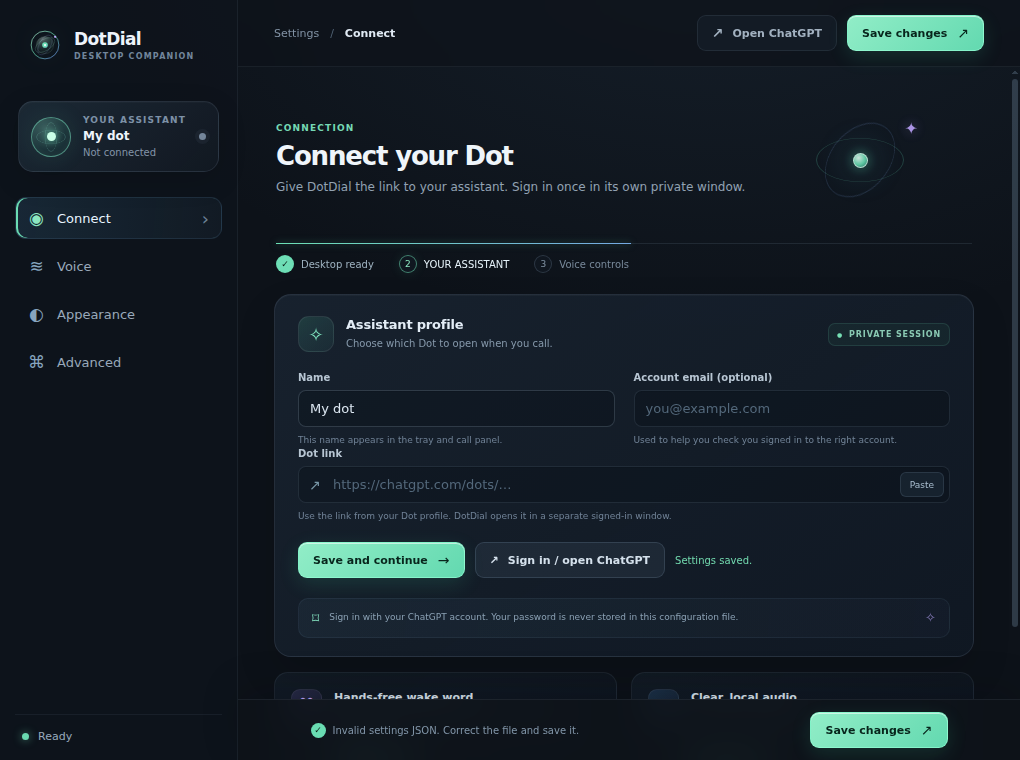
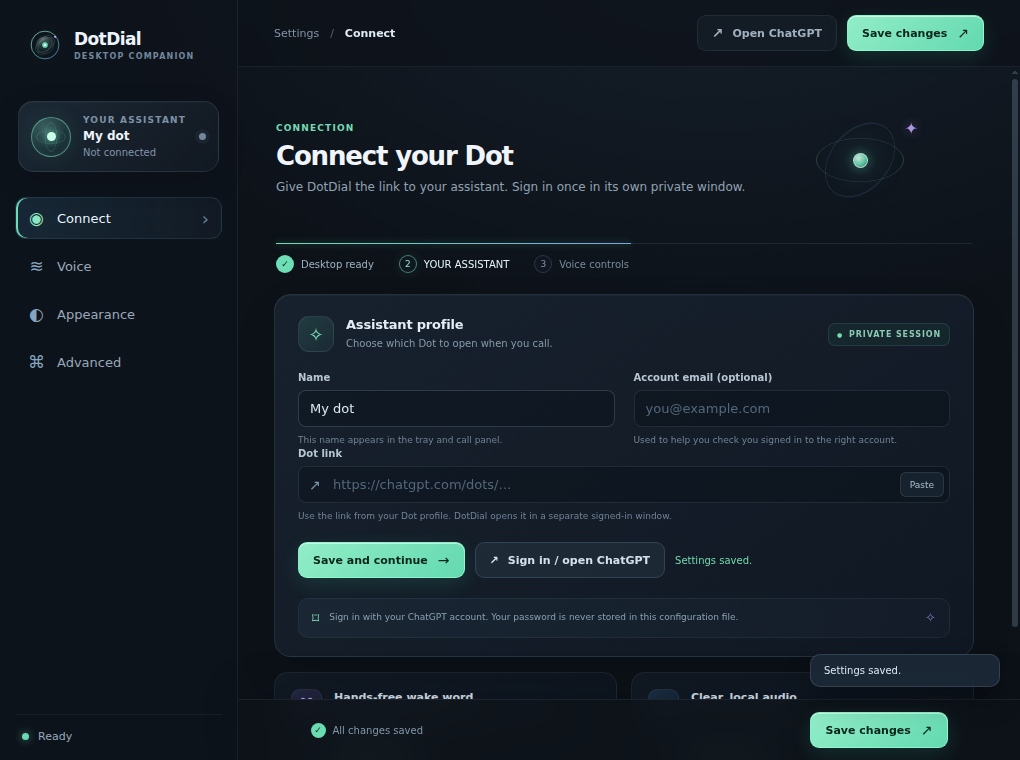
Polish settings recovery and document beta status

Changed region(s): [[0.7902, 0.8474, 1.0, 0.9079], [0.3343, 0.9382, 0.5471, 0.9684]]

diff --git a/src/ui/style.css b/src/ui/style.css
@@ -228,6 +228,7 @@ button:focus-visible, input:focus-visible, select:focus-visible, textarea:focus-
 .save-bar { position: fixed; z-index: 5; right: 0; bottom: 0; left: 238px; display: flex; align-items: center; justify-content: space-between; min-height: 61px; padding: 0 max(36px, calc((100% - 875px) / 2)); border-top: 1px solid rgba(177, 201, 225, .085); background: rgba(13, 18, 25, .82); box-shadow: 0 -12px 38px rgba(3, 7, 11, .15); backdrop-filter: blur(18px); }
 .saved-state { display: flex; align-items: center; gap: 7px; color: #8296a9; font-size: 10px; }
 .saved-check { display: grid; place-items: center; width: 15px; height: 15px; border-radius: 50%; color: #0b2119; background: #69dcb2; font-size: 9px; font-weight: 800; }
+.saved-check.warning { color: #e2bb80; background: rgba(226, 187, 128, .16); }
 .save-bar-actions { display: flex; align-items: center; gap: 9px; }
 .inline-alert { margin: 15px 0 0; padding: 10px 12px; border: 1px solid rgba(255, 136, 149, .23); border-radius: 8px; color: #ffb0b7; background: rgba(193, 74, 91, .09); font-size: 10px; line-height: 1.5; }
 .error-alert { border-color: rgba(255, 136, 149, .25); color: #ffb0b7; background: rgba(193, 74, 91, .1); }

diff --git a/src/ui/renderer.js b/src/ui/renderer.js
@@ -478,8 +478,16 @@ function updateSettingsState(state = {}) {
     const row = messages[state.wake_status];
     if (row) { wakeStatus.textContent = copy(row[0]); wakeStatus.className = `status-note ${row[1]}`.trim(); }
   }
-  if (!unsaved && state.config_error) { $('#save-status').textContent = 'Invalid settings JSON. Correct the file and save it.'; }
-  else if (!unsaved && state.config_pending) { $('#save-status').textContent = 'Settings will apply after the call.'; }
+  if (!unsaved) {
+    const pending = Boolean(state.config_error || state.config_pending);
+    const saved = $('#save-status');
+    saved.textContent = state.config_error ? 'Invalid settings JSON. Correct the file and save it.'
+      : state.config_pending ? 'Settings will apply after the call.' : copy('allChangesSaved');
+    saved.classList.toggle('success', !pending);
+    const indicator = $('.saved-check');
+    indicator.textContent = state.config_error ? '!' : state.config_pending ? '…' : '✓';
+    indicator.classList.toggle('warning', pending);
+  }
   updateSidebar(loadedConfig || DEFAULTS, state);
 }
 function setupPanel() {

diff --git a/docs/RELEASE_NOTES.md b/docs/RELEASE_NOTES.md
@@ -1,0 +1,9 @@
+# DotDial 0.1.0-beta.1
+
+An experimental Linux x86_64 desktop companion for calling a ChatGPT dot already available to your account. Builds are provided as Debian/Ubuntu `.deb` and `.tar.gz` packages.
+
+The beta adds tray and keyboard controls, a floating call panel, separate microphone and speaker mute, and call-state sounds. Optional offline English wake-word support is included; **Hey Dot** is an example phrase. When speakers are muted and recording is enabled, incoming replies can be saved as local WAV files and replayed oldest first. A clip is deleted only after it finishes playing; DotDial does not archive microphone audio or create transcripts.
+
+Defaults use direct networking, no extra audio buffering, and wake-word detection turned off. Wake recognition requires a separate model setup and sensitivity calibration for your voice and microphone. **Live-call acceptance and real-voice wake-word calibration are still pending**, so reliability has not been confirmed for general use.
+
+DotDial is an unofficial community project, not an OpenAI product. It signs in to ChatGPT in its own window and uses internal ChatGPT web routes rather than a supported public voice API. Those routes may change or stop working. No API key is required.
